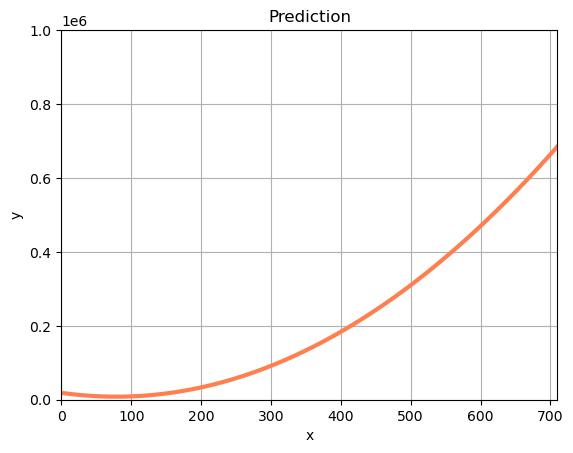
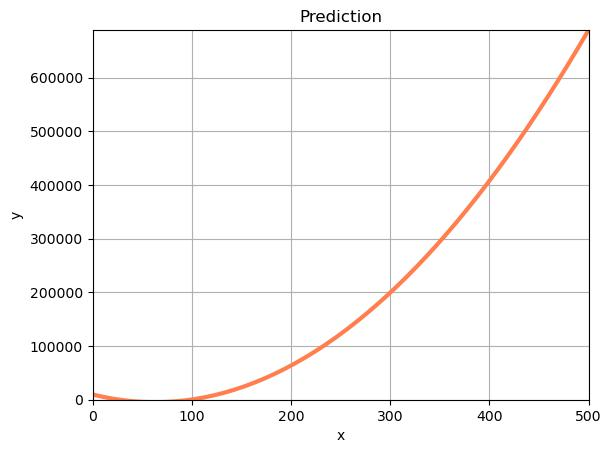
add more validations

diff --git a/app/proyecto2.py b/app/proyecto2.py
@@ -88,8 +88,8 @@ def generatePredictionGraph(y: DataFrame, grade, days, max_val):
     plt.grid()
     plt.xlim(x_new_min, x_new_max)  ## X axis
 
-    plt.ylim(0, 1000000)
-    #plt.ylim(0, Y_NEW[int(x_new_max)])
+    
+    plt.ylim(0, Y_NEW[int(Y_NEW.size-1)])
     #title = 'Degree={ }; RMSE={ }; R2={ }'.format(nb_degree, round(rmse, 2), round(r2, 2))
     plt.title('Prediction')
     plt.xlabel('x')
@@ -98,8 +98,12 @@ def generatePredictionGraph(y: DataFrame, grade, days, max_val):
     plt.savefig('pol_reg.jpg', bbox_inches='tight')
     plt.show()
     st.pyplot()
-    #st.write("The prediction will be ", Y_NEW[int(x_new_max)][0])
-    st.write(Y_NEW)
+    st.caption('Prediction graph')
+    st.write("La predicción será de ",  Y_NEW[int(Y_NEW.size-1)][0])
+
+    #
+    fig = ff.create_distplot(Y_NEW, ['test'], bin_size=[0] )
+
     pass
 
 
@@ -152,25 +156,41 @@ def covidInfectionTendence(data: DataFrame):
 
         flt = data[data[data_options[0]].isin(country)]
 
-        variable = st.multiselect(
-            'Select variables to analize [date, numeric]: ', data.columns)
-        #st.write(flt)
-        st.write(variable)
-        # data
+        have_date = st.checkbox('This file has "date" field')
 
-        flt[variable[0]] = pd.to_datetime(flt[variable[0]])
-        flt[variable[0]] = flt[variable[0]]
+        st.write(have_date)
 
-        flt = flt[[variable[0], variable[1]]].sort_values(by=[variable[0]])
+        if have_date:
+            variable = st.multiselect(
+                'Select variables to analize [date, numeric]: ', data.columns)
+            #st.write(flt)
+            st.write(variable)
+            # data
 
-        st.write(flt)
-        #sum
-        st.write(flt.groupby([variable[0], variable[1]]).sum().reset_index())
+            flt[variable[0]] = pd.to_datetime(flt[variable[0]])
+            flt[variable[0]] = flt[variable[0]]
 
-        # Tendency
-        generateTendencyGraph(flt[variable[1]],
-                              "Tendency COVID spread by country",
-                              flt[variable[1]].max())
+            flt = flt[[variable[0], variable[1]]].sort_values(by=[variable[0]])
+
+            st.write(flt)
+            #sum
+            st.write(
+                flt.groupby([variable[0], variable[1]]).sum().reset_index())
+
+            # Tendency
+            generateTendencyGraph(flt[variable[1]],
+                                  "Tendency COVID spread by country",
+                                  flt[variable[1]].max())
+        else:
+            variable = st.selectbox('Select variable to analyze: ',
+                                    data.columns)
+
+            st.write(flt[variable])
+
+            generateTendencyGraph(flt[variable],
+                                  "Tendency COVID spread by country",
+                                  flt[variable].max())
+
     except Exception as e:
         st.write(e)
         st.warning("Please select a field")
@@ -179,28 +199,52 @@ def covidInfectionTendence(data: DataFrame):
 # Predicción de Infectados en un País.
 def covidInfectedPredictionByCountry(data: DataFrame):
 
-    option = st.multiselect('Select date, country and numeric variable: ',
-                            data.columns)
+    have_date = st.checkbox('This file has "date" field')
 
     try:
+        if have_date:
+            option = st.multiselect(
+                'Select date, country and numeric variable: ', data.columns)
 
-        df = data[[option[0], option[1], option[2]]]
-        #st.write(df)
-        country = st.selectbox('Select country: ',
-                               df[[option[1]]].drop_duplicates())
+            df = data[[option[0], option[1], option[2]]]
+            #st.write(df)
+            country = st.selectbox('Select country: ',
+                                   df[[option[1]]].drop_duplicates())
 
-        # Filter data by country
-        c = [country]
+            # Filter data by country
+            c = [country]
 
-        data[data[option[1]].isin(c)]
+            data[data[option[1]].isin(c)]
 
-        y = data[option[2]]
+            y = data[option[2]]
 
-        days = st.slider('Select a number of days to predict', 5, 1000)
+            days = st.slider('Select a number of days to predict', 5, 1000)
 
-        grade = st.slider('Select a polynomial grade prediction: ', 1, 5)
-        print(y)
-        generatePredictionGraph(y, grade, days, y.max())
+            grade = st.slider('Select a polynomial grade prediction: ', 1, 5)
+            # print(y)
+            generatePredictionGraph(y, grade, days, y.max())
+
+        else:
+
+            option = st.multiselect(
+                'Select a field, and numeric variable to filter [ex. country, infections]: ',
+                data.columns)
+
+            country = st.selectbox('Select country',
+                                   data[option[0]].drop_duplicates())
+
+            data = data[data[option[0]].isin([country])]
+
+            data[[option[0], option[1]]]
+
+            days = st.slider('Select a number of days to predict', 5, 1000)
+
+            grade = st.slider('Select a polynomial grade prediction: ', 1, 5)
+
+            y = data[option[1]]
+            generatePredictionGraph(y, grade, days, y.max())
+            #st.write(data)
+            pass
 
     except Exception as e:
         st.write(e)
@@ -577,43 +621,21 @@ def covidDeathPredictionByCountry(data: DataFrame):
 # Análisis del número de muertes por coronavirus en un País.
 def covidDeathsByCountry(data: DataFrame):
 
-    data_options = st.multiselect('Select fields: ', data.columns)
+    data_options = st.multiselect(
+        'Select field, and variables to analize [ex. country, deaths, date]: ',
+        data.columns)
 
     try:
-        df = data[data_options[0]]
-        country_options = st.multiselect('Select country', df)
 
-        country = data.loc[data[data_options[0]] == country_options[0]]
+        country = st.selectbox('Select country',
+                               data[data_options[0]].drop_duplicates())
 
-        size = country.columns.__len__()
+        data = data[data[data_options[0]].isin([country])]
 
-        # Generate Graph
-        x = country.columns[4:size - 1]
-        x = pd.to_datetime(x, format='%m/%d/%y')
+        data[data_options[2]] = pd.to_datetime(data[data_options[2]])
 
-        deaths = country.loc[:, country.columns[4]:country.columns[size - 1]]
-        data_index = deaths.index[0]
-
-        d = {
-            'columns': country.columns[4:size - 1],
-            'data': [deaths.loc[data_index]],
-            'index': [1]
-        }
-
-        # plot graph
-        try:
-            st.set_option('deprecation.showPyplotGlobalUse', False)
-            df = pd.DataFrame(d['data'],
-                              columns=d['columns'],
-                              index=d['index'])
-            df.columns.names = ['Covid deaths']
-            row = df.iloc[0]
-            row.plot(kind="line")
-            plt.show()
-            st.pyplot()
-
-        except:
-            st.warning('The graph could not be generated')
+        st.subheader('Deaths analysis in {}'.format(country))
+        st.write(data[[data_options[1], data_options[2]]])
 
     except:
         st.warning("Please select a field")
